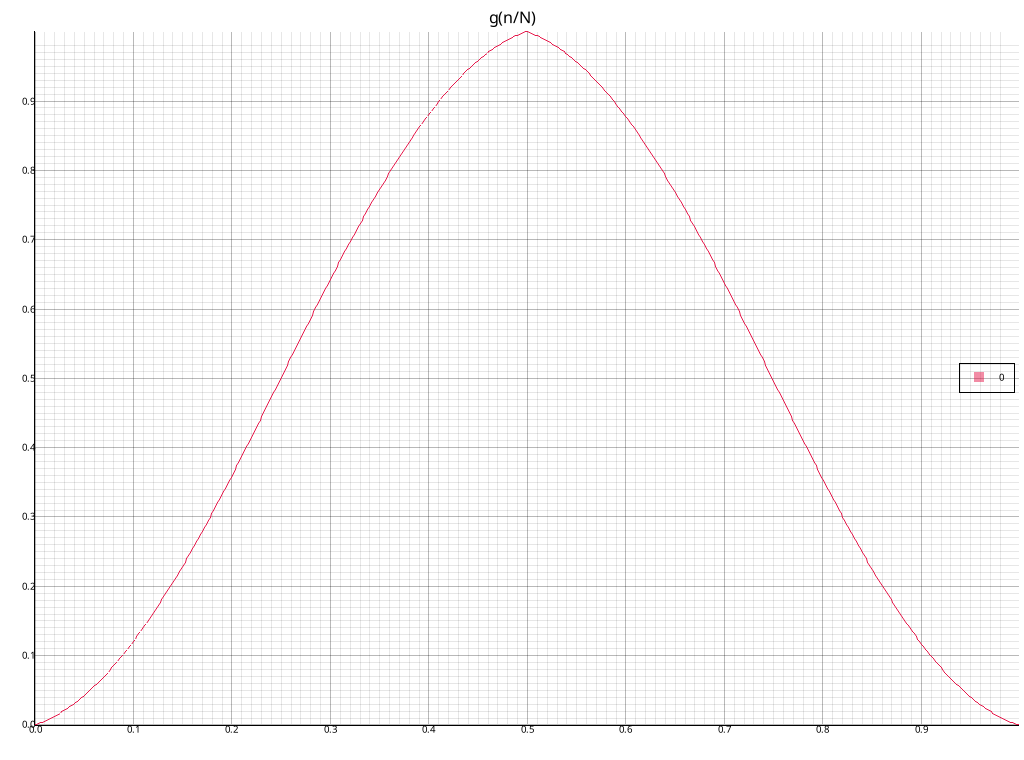
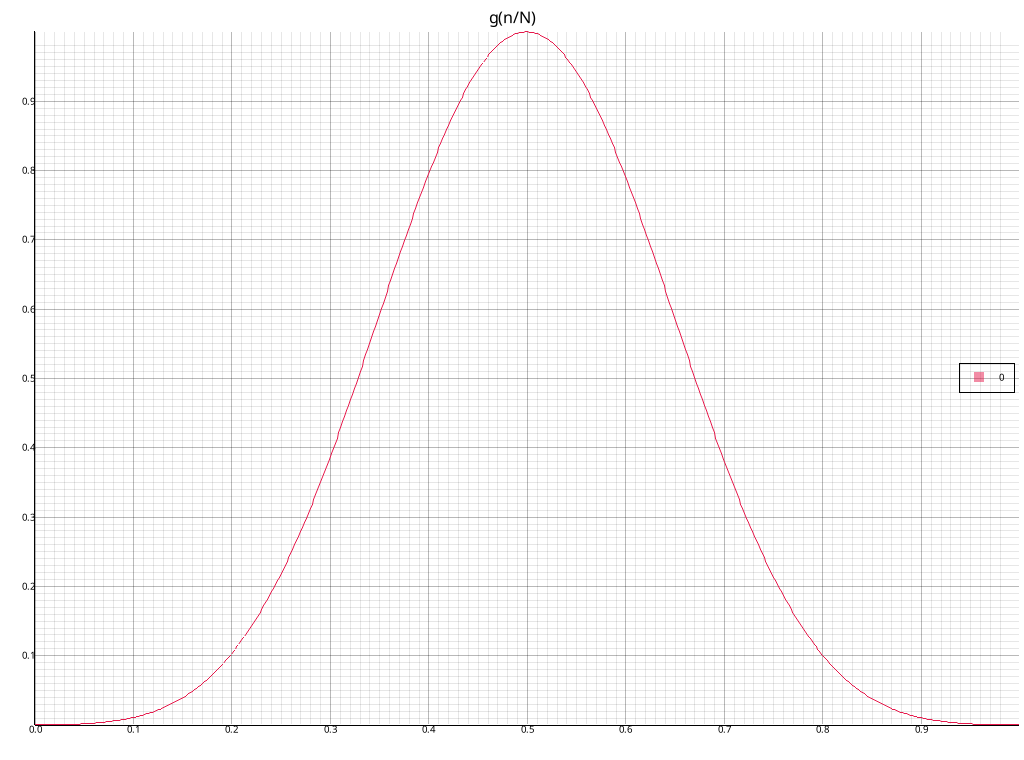
Blackman harris window

diff --git a/signal_windows/src/windows/blackman_harris.rs b/signal_windows/src/windows/blackman_harris.rs
@@ -1,67 +1,41 @@
+use num_traits::{Float, FloatConst};
 
-use array_trait::length::{self, LengthValue};
-use bulks::Bulk;
-use num::{Float, complex::ComplexFloat, traits::FloatConst};
+use crate::WindowFn;
 
-use crate::generators::window::{WindowGen, WindowRange};
-
+#[derive(Clone, Copy)]
 pub struct BlackmanHarris;
 
-impl<T, N> WindowGen<T, N> for BlackmanHarris
+impl<T> WindowFn<T> for BlackmanHarris
 where
-    T: ComplexFloat,
-    N: LengthValue
+    T: Float + FloatConst
 {
-    type Output = impl Bulk<Item = T>;
+    type Functor = impl Fn(usize) -> T;
 
-    fn window_gen(&self, numtaps: N, range: WindowRange) -> Self::Output
+    fn window_fn(self, length: usize) -> Self::Functor
     {
-        let mut i = 0;
-        let n = length::value::len(numtaps);
-        let m = match range
-        {
-            WindowRange::Symmetric => n - 1,
-            WindowRange::Periodic => n,
-        };
         let a0 = T::from(0.35875).unwrap();
         let a1 = T::from(0.48829).unwrap();
         let a2 = T::from(0.14128).unwrap();
         let a3 = T::from(0.01168).unwrap();
-        bulks::repeat_n_with(|| {
-            let z1 = (T::TAU()*T::from(i).unwrap()/T::from(m).unwrap()).cos();
-            let z2 = (T::TAU()*T::from(i*2).unwrap()/T::from(m).unwrap()).cos();
-            let z3 = (T::TAU()*T::from(i*3).unwrap()/T::from(m).unwrap()).cos();
-            i += 1;
+        move |i| {
+            let z1 = (T::TAU()*T::from(i).unwrap()/T::from(length).unwrap()).cos();
+            let z2 = (T::TAU()*T::from(i*2).unwrap()/T::from(length).unwrap()).cos();
+            let z3 = (T::TAU()*T::from(i*3).unwrap()/T::from(length).unwrap()).cos();
             a0 - a1*z1 + a2*z2 - a3*z3
-        }, numtaps)
+        }
     }
 }
 
 #[cfg(test)]
 mod test
 {
-    use core::f64::consts::{PI, TAU};
-
-    use linspace::Linspace;
-
-    use crate::{plot, generators::window::{WindowGen, WindowRange}, analysis::FreqZ, systems::Tf};
+    use crate::tests;
 
     use super::BlackmanHarris;
 
     #[test]
     fn test()
     {
-        const N: usize = 1024;
-        let w: [_; N/2] = BlackmanHarris.window_gen((), WindowRange::Symmetric);
-        let n = (0.0..1.0).linspace_array();
-
-        plot::plot_curves("g(n/N)", "plots/windows/g_n_blackman_harris.png", [&n.zip(w)]).unwrap();
-
-        let (mut w_f, mut omega): ([_; N], _) = Tf::new(w, ()).freqz((), false);
-        omega.map_assign(|omega| (omega + PI) % TAU - PI);
-        w_f.rotate_right(N/2);
-        omega.rotate_right(N/2);
-        
-        plot::plot_curves("G(e^jw)", "plots/windows/g_f_blackman_harris.png", [&omega.zip(w_f.map(|w| 20.0*w.norm().log10()))]).unwrap();
+        tests::plot_window(BlackmanHarris)
     }
 }

diff --git a/signal_windows/src/windows/barthann.rs b/signal_windows/src/windows/barthann.rs
@@ -1,18 +1,15 @@
 use core::f64::consts::TAU;
 
-use array_trait::length::{self, LengthValue};
-use bulks::{Bulk, Map};
-use num_complex::ComplexFloat;
-use num_traits::NumCast;
+use num_traits::{Float, FloatConst, NumCast};
 
-use crate::{Shape, Window, WindowFn};
+use crate::WindowFn;
 
 #[derive(Clone, Copy)]
 pub struct Barthann;
 
 impl<T> WindowFn<T> for Barthann
 where
-    T: ComplexFloat
+    T: Float + FloatConst
 {
     type Functor = impl Fn(usize) -> T;
 
@@ -29,10 +26,7 @@ where
 #[cfg(test)]
 mod test
 {
-    use bulks::*;
-    use linspace::Linspace;
-
-    use crate::{Shape, Window, plot, tests};
+    use crate::tests;
 
     use super::Barthann;
 

diff --git a/signal_windows/src/plot.rs b/signal_windows/src/plot.rs
@@ -3,7 +3,6 @@ use plotters::prelude::*;
 
 type T = f64;
 
-const CLAMP: T = 200.0;
 const PLOT_RES: (u32, u32) = (1024, 760);
 const PLOT_CAPTION_FONT: (&str, u32) = ("sans", 20);
 const PLOT_MARGIN: u32 = 5;

diff --git a/signal_windows/src/windows/mod.rs b/signal_windows/src/windows/mod.rs
@@ -1,7 +1,7 @@
 moddef::moddef!(
     flat(pub) mod {
         barthann,
-        //blackman_harris,
+        blackman_harris,
         //blackman_nuttall,
         //blackman,
         //bohman,
